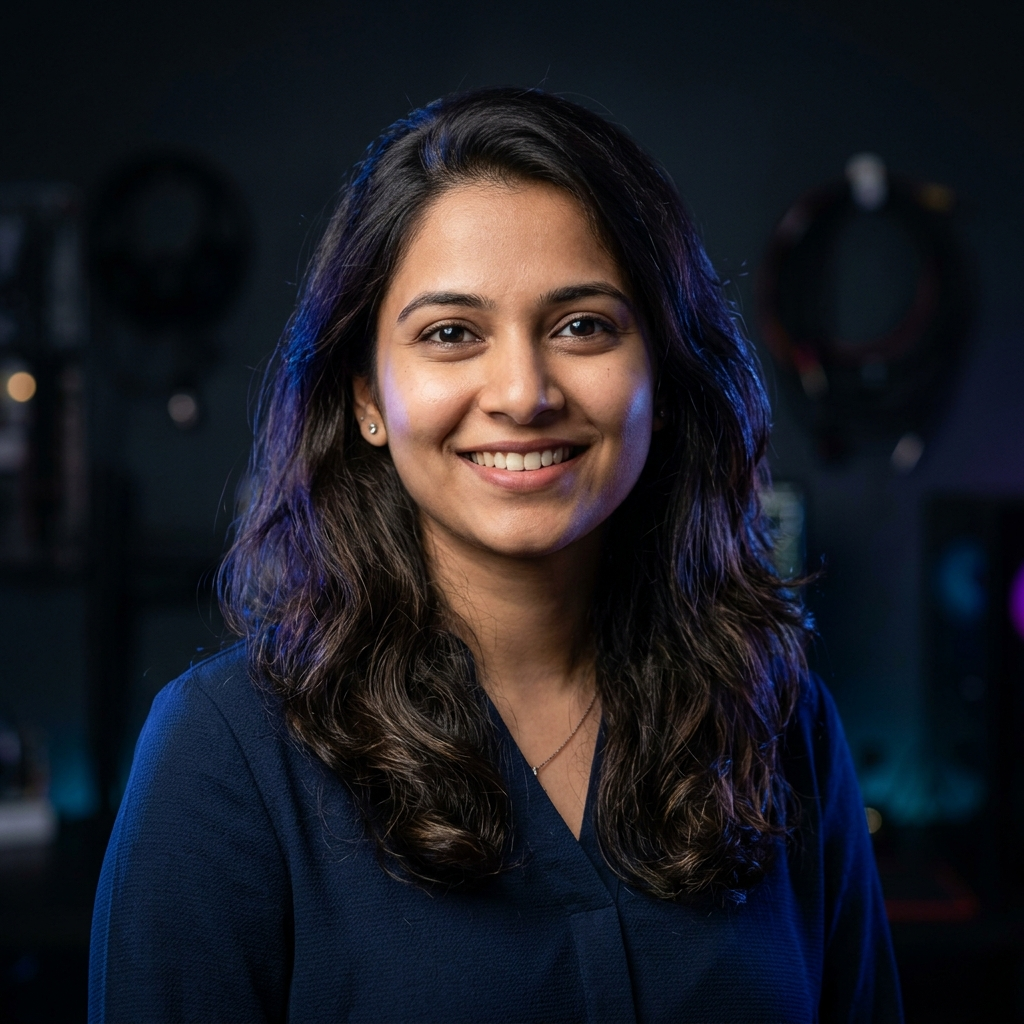
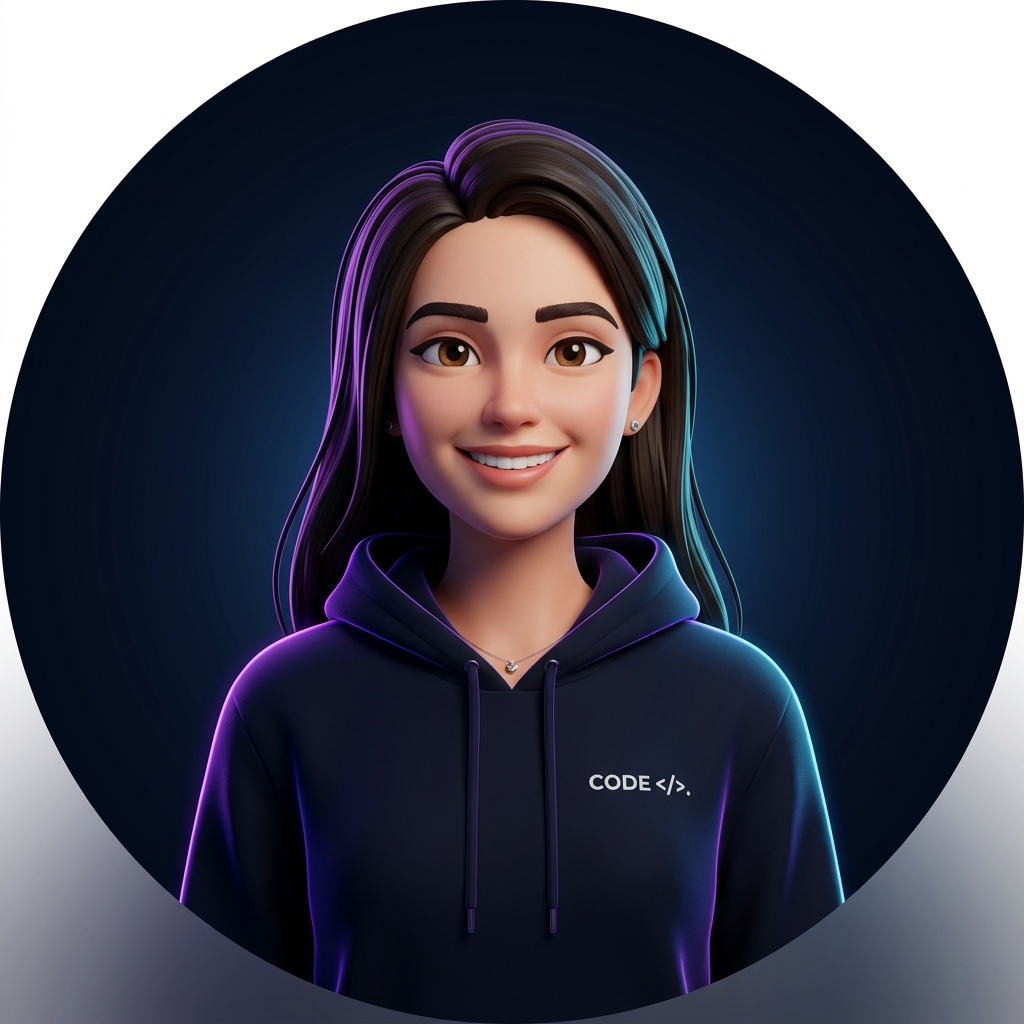
added dummy user pic

diff --git a/src/pages/Home/Home.tsx b/src/pages/Home/Home.tsx
@@ -257,7 +257,7 @@ function Home() {
 
               <div className="portal-avatar-frame">
                 <img
-                  src={getAssetUrl("nikita-portrait.jpg")}
+                  src={getAssetUrl("nikita-portrait.jpg?v=2")}
                   alt="Nikita Panwar - Full-Stack Developer"
                   className="portal-avatar-img"
                 />
